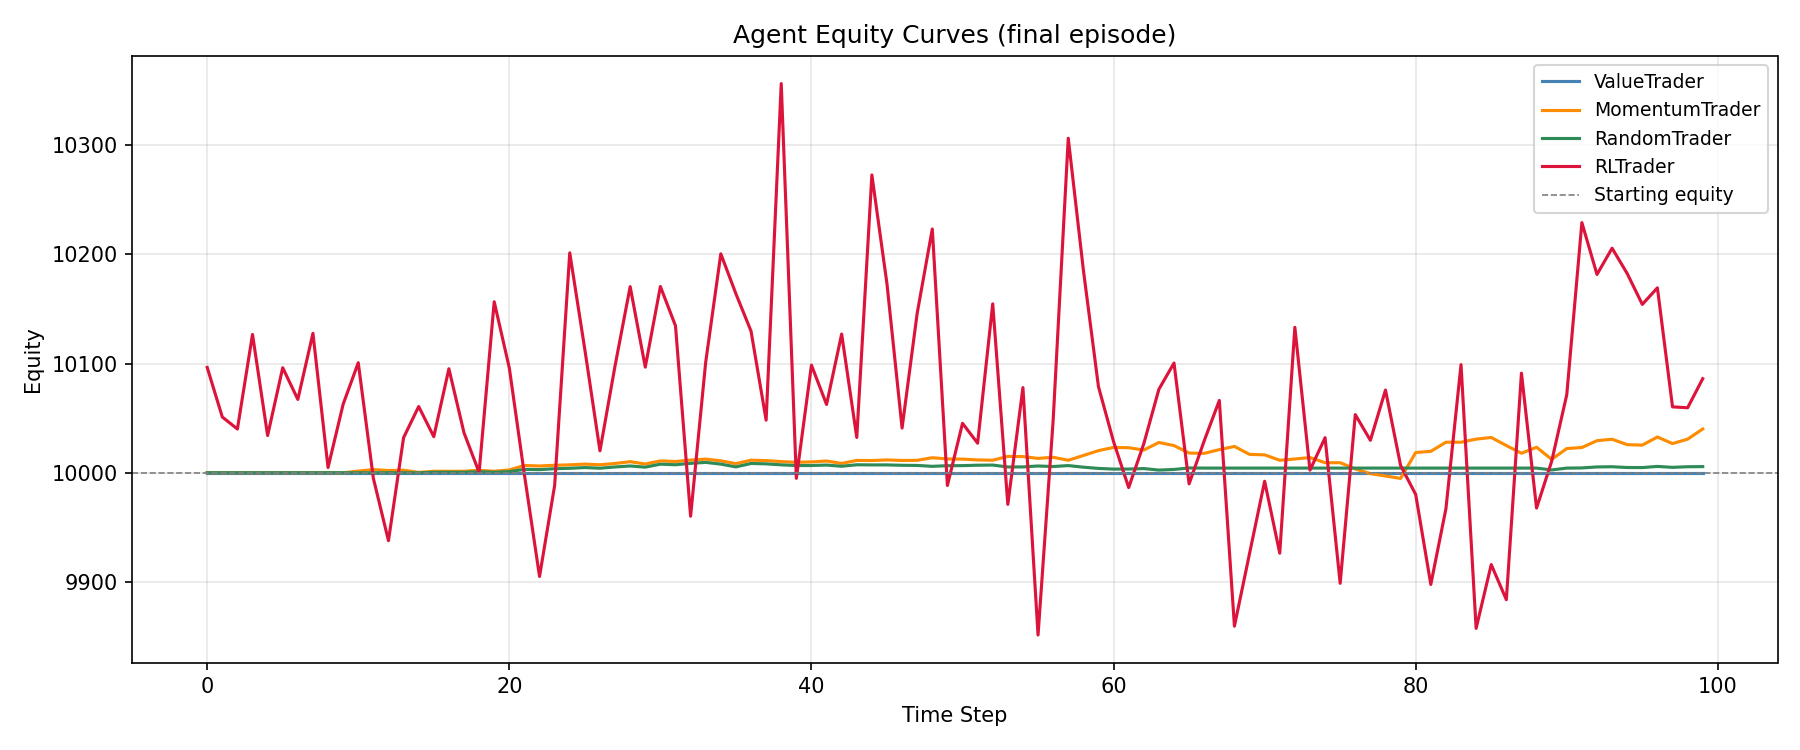
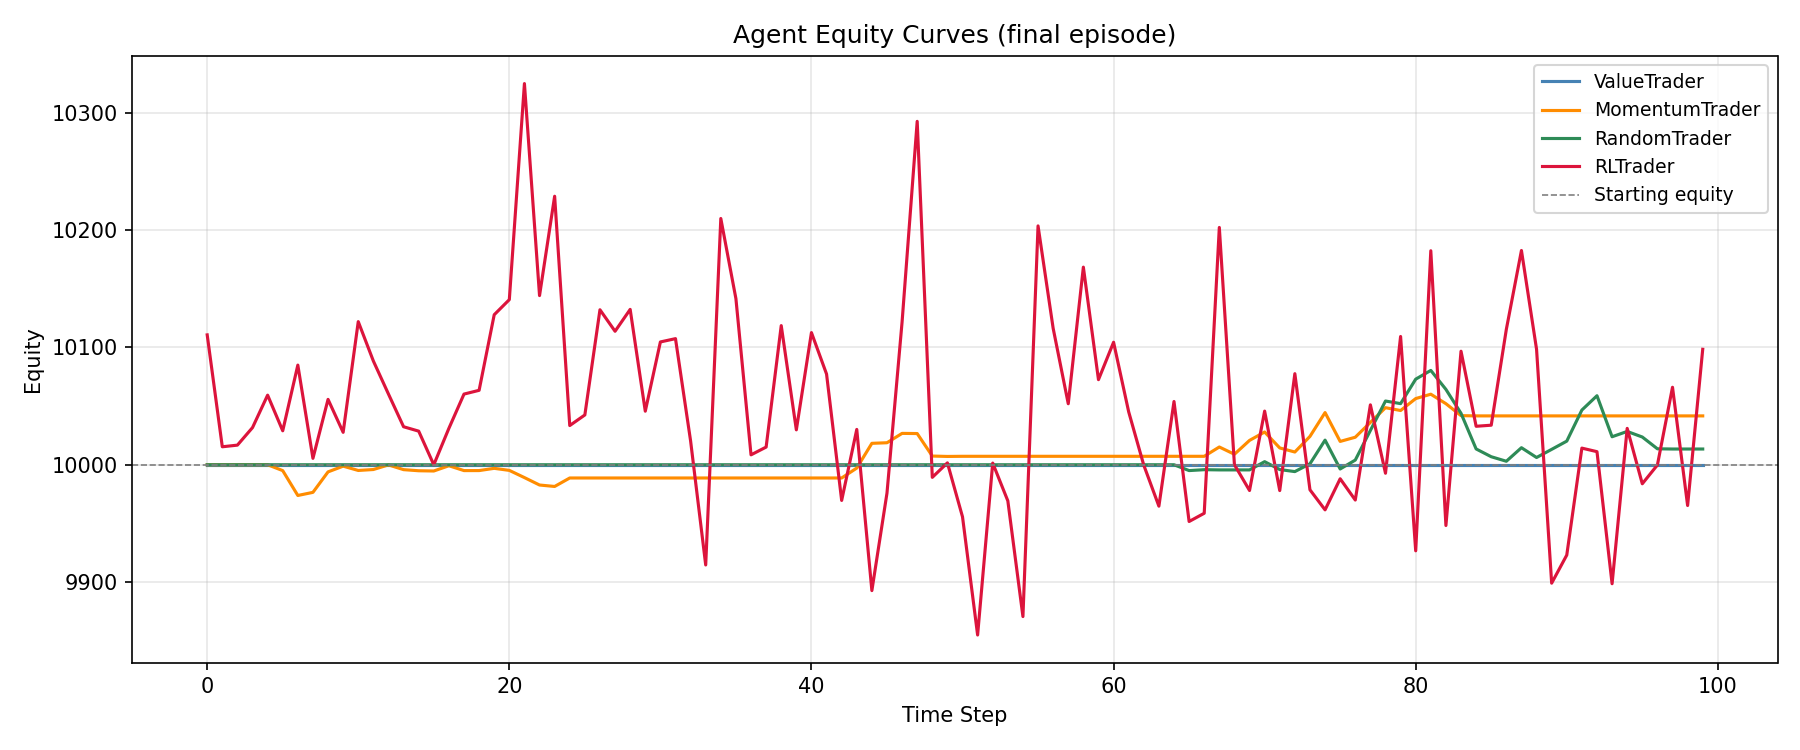
Add system for stable portfolio volatility targeting
Implement volatility targeting by adding state tracking for realized and target volatility, calculating a dynamic scaling factor, and adjusting broker exposure targets and reward shaping to maintain risk stability.

Replit-Commit-Author: Agent
Replit-Commit-Session-Id: 3826bf3c-e3fd-4317-b321-61e418fea702
Replit-Commit-Checkpoint-Type: full_checkpoint
Replit-Commit-Event-Id: 2a2d6a67-9e9b-49a5-a9e1-6ee1a4b89da2
Replit-Helium-Checkpoint-Created: true

diff --git a/project/simulation/simulation.py b/project/simulation/simulation.py
@@ -105,6 +105,16 @@ class Simulation:
         self.prev_frac_drawdown = 0.0
         self.prev_dd_flag       = 0
 
+        # --- Volatility targeting -----------------------------------------
+        # Tracks 30-step annualised realised vol and computes a scaling
+        # factor applied to all exposure targets in the broker so the
+        # portfolio stays near a stable risk level regardless of regime.
+        self.realized_vol      = 0.0
+        self.prev_realized_vol = 0.0
+        self.target_vol        = 0.12   # 12 % annualised target
+        self.vol_scaler        = 1.0    # [0.25, 2.0]
+        self.prev_vol_flag     = 0
+
         # --- Multi-timeframe trend windows --------------------------------
         self.trend_windows = [5, 20, 50]
         # price_history (defined in __init__ above) stores raw prices per step
@@ -1005,6 +1015,45 @@ class Simulation:
                     else:
                         state.equity_vol = 0.0
 
+                    # --- Rolling realised volatility (30-step, annualised) ---
+                    _rv_window = self.equity_history[-30:]
+                    if len(_rv_window) >= 2:
+                        _rv_rets = [
+                            (_rv_window[i] - _rv_window[i - 1]) / max(_rv_window[i - 1], 1e-6)
+                            for i in range(1, len(_rv_window))
+                        ]
+                        _rv_mean = sum(_rv_rets) / len(_rv_rets)
+                        _rv_var  = sum((r - _rv_mean) ** 2 for r in _rv_rets) / len(_rv_rets)
+                        self.prev_realized_vol = self.realized_vol
+                        self.realized_vol = (_rv_var ** 0.5) * (252 ** 0.5)
+                    else:
+                        self.realized_vol = 0.0
+
+                    setattr(state, "realized_vol", self.realized_vol)
+
+                    # Vol scaling factor: target_vol / realized_vol, clipped [0.25, 2.0]
+                    if self.realized_vol > 0:
+                        self.vol_scaler = min(2.0, max(0.25, self.target_vol / self.realized_vol))
+                    else:
+                        self.vol_scaler = 1.0
+
+                    setattr(state, "vol_scaler", self.vol_scaler)
+
+                    # Vol severity feedback (transition-only)
+                    _vf = 0
+                    if self.realized_vol > 1.5 * self.target_vol: _vf = 1
+                    if self.realized_vol > 2.0 * self.target_vol: _vf = 2
+                    if _vf != self.prev_vol_flag:
+                        if _vf == 1:
+                            _vfmsg = "Volatility warning: realized vol above 150% of target."
+                        elif _vf == 2:
+                            _vfmsg = "High volatility: realized vol above 200% of target — scaling down."
+                        else:
+                            _vfmsg = "Volatility normalized."
+                        self.macro_messages.append(_vfmsg)
+                        print(_vfmsg)
+                    self.prev_vol_flag = _vf
+
                     if agent.prev_state is not None:
                         # --- Regime-aware portfolio reward ----------------
                         pnl_reward    = new_equity - agent.prev_equity
@@ -1121,6 +1170,14 @@ class Simulation:
                         # Nudge agent toward maintaining gains near new highs
                         if new_equity >= 0.995 * (self.equity_peak or new_equity):
                             reward += 0.001
+
+                        # --- Volatility targeting reward ------------------
+                        # Penalise deviation from target_vol; small bonus for
+                        # staying within ±2pp of the target.
+                        _vol_err = abs(self.realized_vol - self.target_vol)
+                        reward -= 0.5 * _vol_err
+                        if _vol_err < 0.02:
+                            reward += 0.002
 
                         # --- Critic: N-step replay buffer update ----------
                         done = (current_step == SIMULATION_STEPS - 1)

diff --git a/project/broker/broker.py b/project/broker/broker.py
@@ -110,6 +110,13 @@ class SimulatedBroker(Broker):
                 cap_short = agent.max_short.get(a, -1.0)
 
             target = max(cap_short, min(cap_long, agent.target_exposures[a]))
+
+            # Scale all exposures toward target vol; re-clamp so we never
+            # exceed the dynamic caps that were just applied above.
+            if simulation is not None:
+                _vscaler = getattr(simulation, "vol_scaler", 1.0)
+                target = max(cap_short, min(cap_long, target * _vscaler))
+
             delta  = target - current
 
             if abs(delta) < 0.05:
